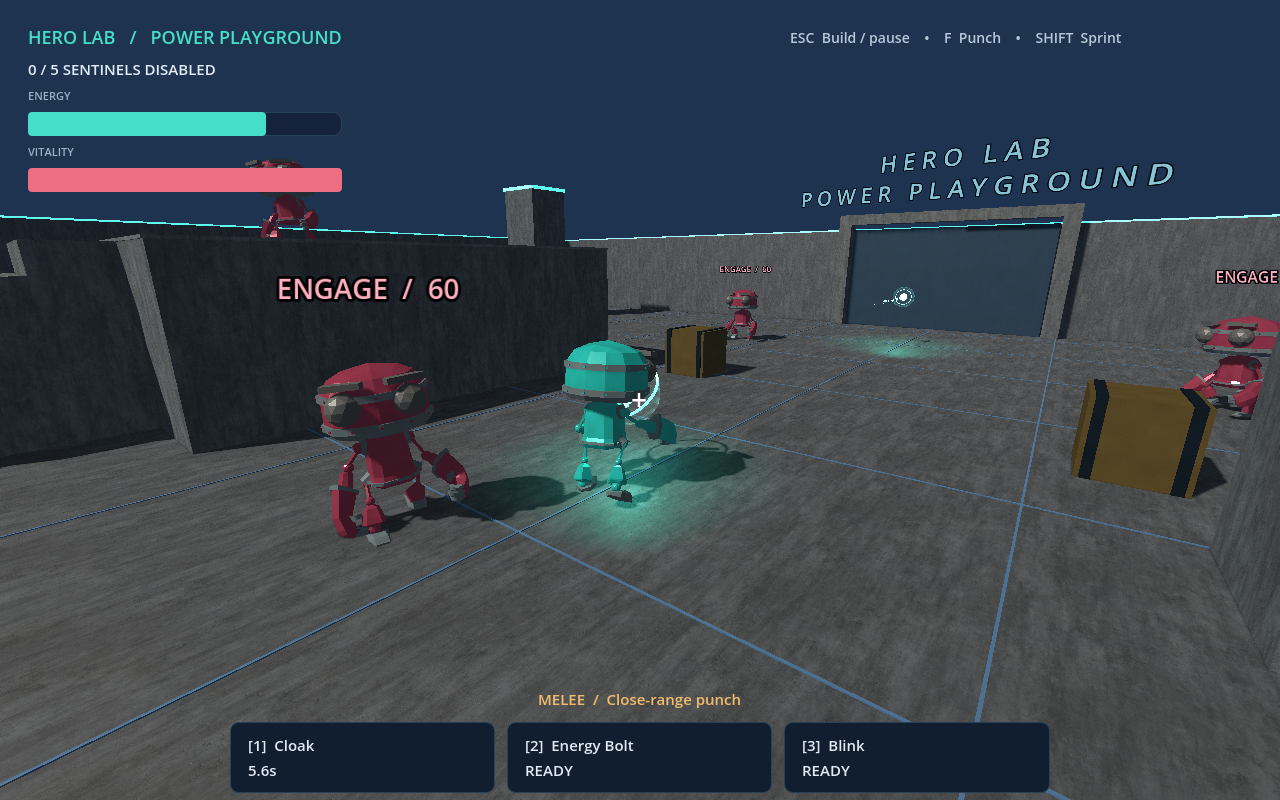
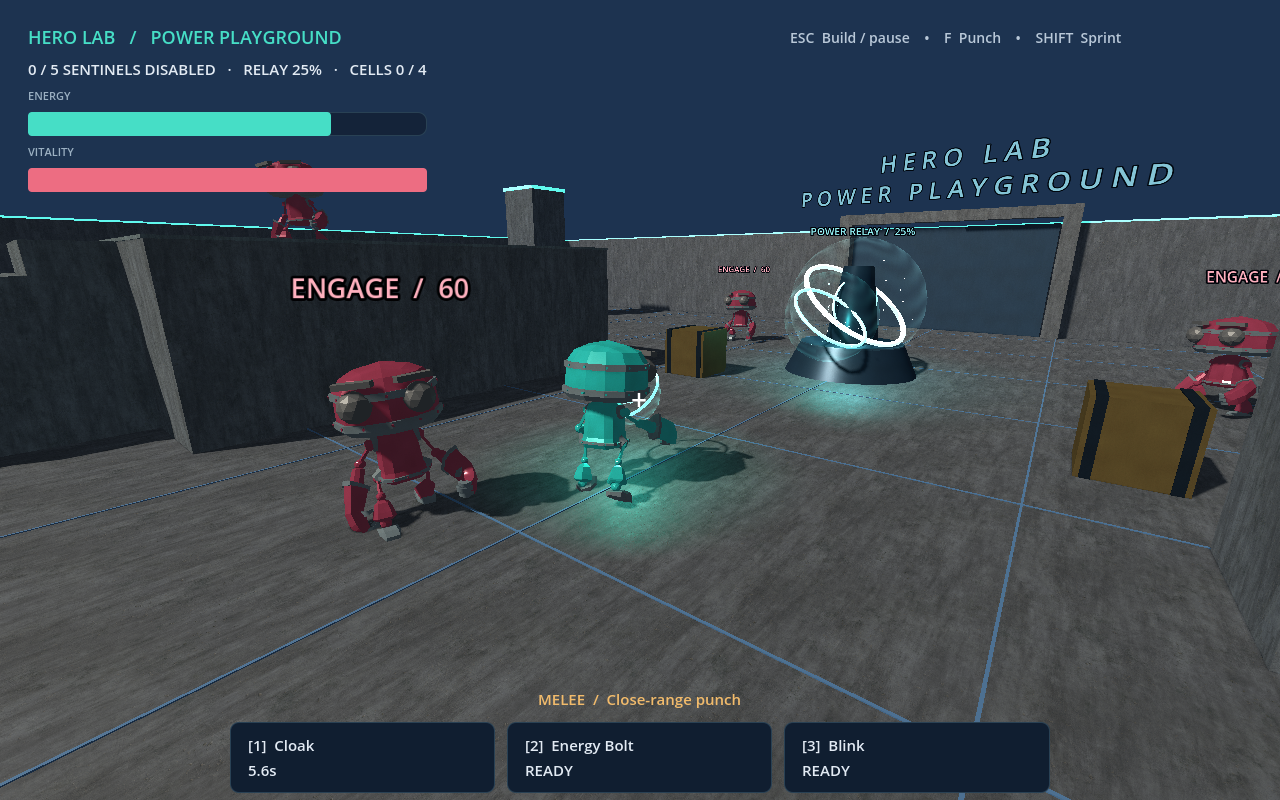
feat: add relay objectives and power cells

diff --git a/README.md b/README.md
@@ -2,7 +2,7 @@
 
 An original third-person superpower action game inspired by the character-building freedom of Project Awakened.
 
-Status: **Hero Lab — Prototype 03**, a playable Godot power playground with animated characters, textured materials, melee, and 3D energy effects.
+Status: **Hero Lab — Prototype 04**, a playable Godot power playground with animated characters, reactive opponents, objectives, collectibles, and 3D energy effects.
 
 ## Play
 
@@ -14,7 +14,7 @@ godot --path client
 
 You can also open `client/project.godot` in Godot 4 and press F6 with the hero lab scene open, or F5 to run the project.
 
-The game opens with three empty slots. Choose exactly three of the six powers below; Enter becomes available only when all three slots are filled. Cards and the loadout preview show the assigned keys (1, 2, 3) in selection order. Click a selected card to remove it, then choose a replacement. You can also choose a signature color. Enter the playground and disable five sentinels; Esc pauses and reopens your build.
+The game opens with three empty slots. Choose exactly three of the six powers below; Enter becomes available only when all three slots are filled. Cards and the loadout preview show the assigned keys (1, 2, 3) in selection order. Click a selected card to remove it, then choose a replacement. You can also choose a signature color. Enter the playground to disable five sentinels, collect power cells, and charge the central relay; Esc pauses and reopens your build.
 
 | Power | What it does |
 | --- | --- |
@@ -36,7 +36,9 @@ All twenty distinct three-power combinations are available. For example, Shield 
 | F | Melee punch (short windup and cooldown) |
 | Esc | Open hero creation and pause |
 
-Energy regenerates. Telekinesis grabs amber crates; pressing its key again throws the held crate. Two energy orbs, two melee punches, or one thrown crate disable a sentinel. Cloak lasts five seconds and breaks when attacking. Sentinels patrol while unaware, investigate sounds from powers and thrown crates, alert nearby allies when hit, then pursue and strafe at combat range when they see the hero. A hit causes a visible stagger; a lethal hit leaves a short shutdown pose before the sentinel clears. Their projectiles travel through space and can be dodged; already-fired attacks can still hit a cloaked hero. Reset restores health, resources, crates, and sentinels.
+Energy regenerates. Telekinesis grabs amber crates; pressing its key again throws the held crate. Two energy orbs, two melee punches, or one thrown crate disable a sentinel. Cloak lasts five seconds and breaks when attacking. Sentinels patrol while unaware, investigate sounds from powers and thrown crates, alert nearby allies when hit, then pursue and strafe at combat range when they see the hero. A hit causes a visible stagger; a lethal hit leaves a short shutdown pose before the sentinel clears. Their projectiles travel through space and can be dodged; already-fired attacks can still hit a cloaked hero.
+
+Four cells are placed in the arena: jade cells restore 30 energy and coral cells restore 25 vitality. The central Power Relay takes charge from Energy Bolts (25%), Shockwaves (30%), melee strikes (12%), and thrown crates (45%). Bringing it to 100% restores all energy and adds 30 vitality. The HUD and the 3D relay label show objective progress. Reset restores enemies, pickups, relay charge, health, and resources.
 
 ## Current limits
 
@@ -56,7 +58,7 @@ godot --path client --script res://tests/capture.gd
 godot --path client --fixed-fps 60 --script res://tests/capture_actions.gd
 ```
 
-The automated suite checks loadouts, energy and cooldowns, cloak behavior, traveling projectile damage, physical thrown-crate impact, Blink collision and ground travel, reset, defeat, movement and animation selection, jumping, melee timing, pause including in-flight attacks, and sentinel patrol, investigation, hit staggering, ally alerts, and enemy fire. The dedicated power suite also checks all twenty builds, empty/incomplete selection rejection, Shockwave range and cover, Shield expiry and damage blocking, and cleanup when changing powers. The capture command opens a temporary rendered window, saves images to `docs/qa/`, and exits.
+The automated suite checks loadouts, energy and cooldowns, cloak behavior, traveling projectile damage, physical thrown-crate impact, Blink collision and ground travel, reset, defeat, movement and animation selection, jumping, melee timing, pause including in-flight attacks, reactive sentinel behavior, pickups, and relay charging/rewards. The dedicated power suite also checks all twenty builds, empty/incomplete selection rejection, Shockwave range and cover, Shield expiry and damage blocking, and cleanup when changing powers. The capture command opens a temporary rendered window, saves images to `docs/qa/`, and exits.
 
 Read [the concept and prototype scope](docs/CONCEPT.md) for the proposed direction, milestones, and research references. Decisions in that document are proposals unless explicitly marked as confirmed.
 

diff --git a/docs/WORK_LOG.md b/docs/WORK_LOG.md
@@ -60,3 +60,10 @@
 - Direct hits now preserve health state, play a stagger response, notify nearby sentinels, and leave a short visible shutdown before removal. Bolts, melee, Shockwave, Blink, and Telekinesis all report noise through the same encounter reaction path.
 - Updated the player-facing scope and controls notes so the actual behavior and remaining tactical limits are clear.
 - Verification: clean Godot editor import; **64 integration checks and 43 dedicated power/selection checks passed** headlessly. The macOS Metal renderer completed the fixed-FPS action capture run successfully, and its regenerated gameplay captures were visually reviewed.
+
+## 2026-09-13 09:00 CDT — objectives and exploration content
+
+- Added a central Power Relay with an animated 3D core, in-world status label, HUD progress, and a concrete reward: full energy plus 30 vitality when it reaches 100% charge.
+- Energy Bolts, Shockwaves, melee strikes, and thrown crates can charge the relay, so different three-power builds have useful environmental interactions beyond direct damage.
+- Added four floating power cells across the arena. Jade cells restore energy, coral cells restore vitality, and each has an animated, emissive 3D presentation.
+- Verification: clean Godot editor import; **69 integration checks and 43 dedicated power/selection checks passed** headlessly. The fixed-FPS Metal capture completed with the new relay objective, and the rendered relay screen was visually reviewed at 1280 × 800.
